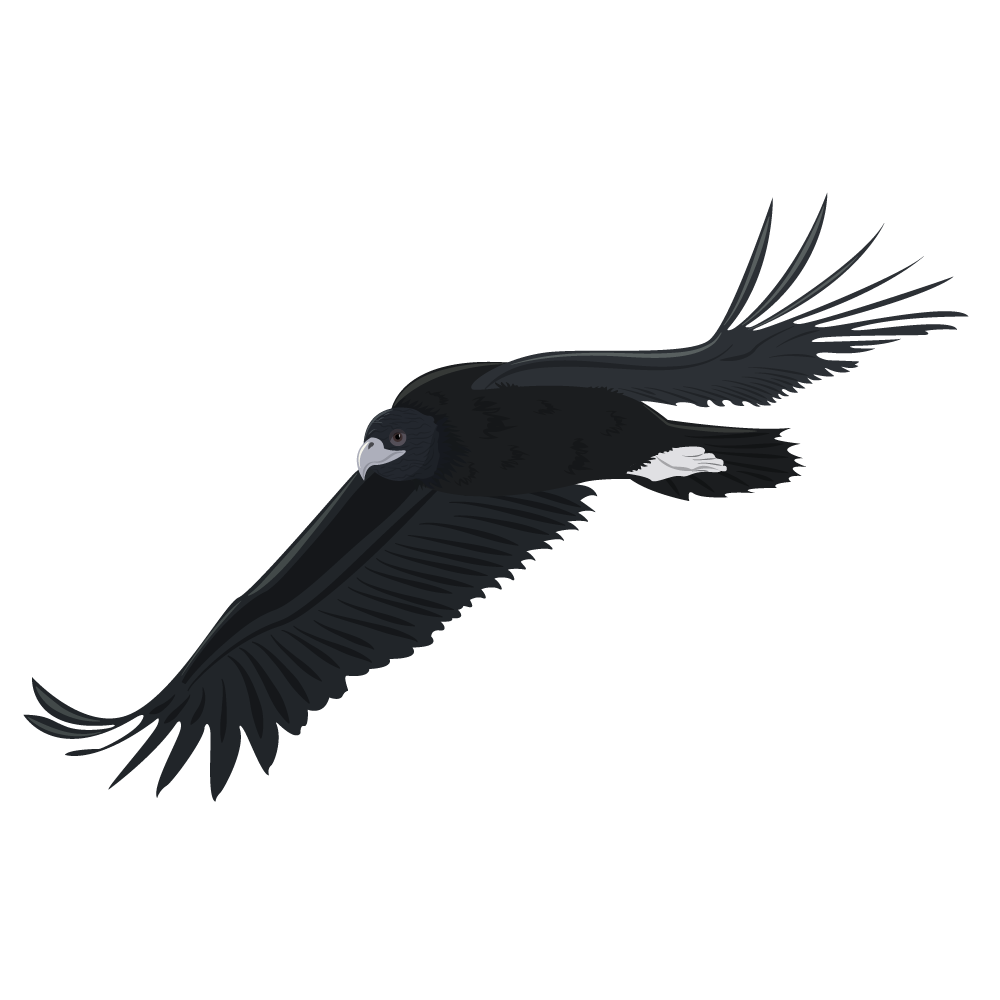
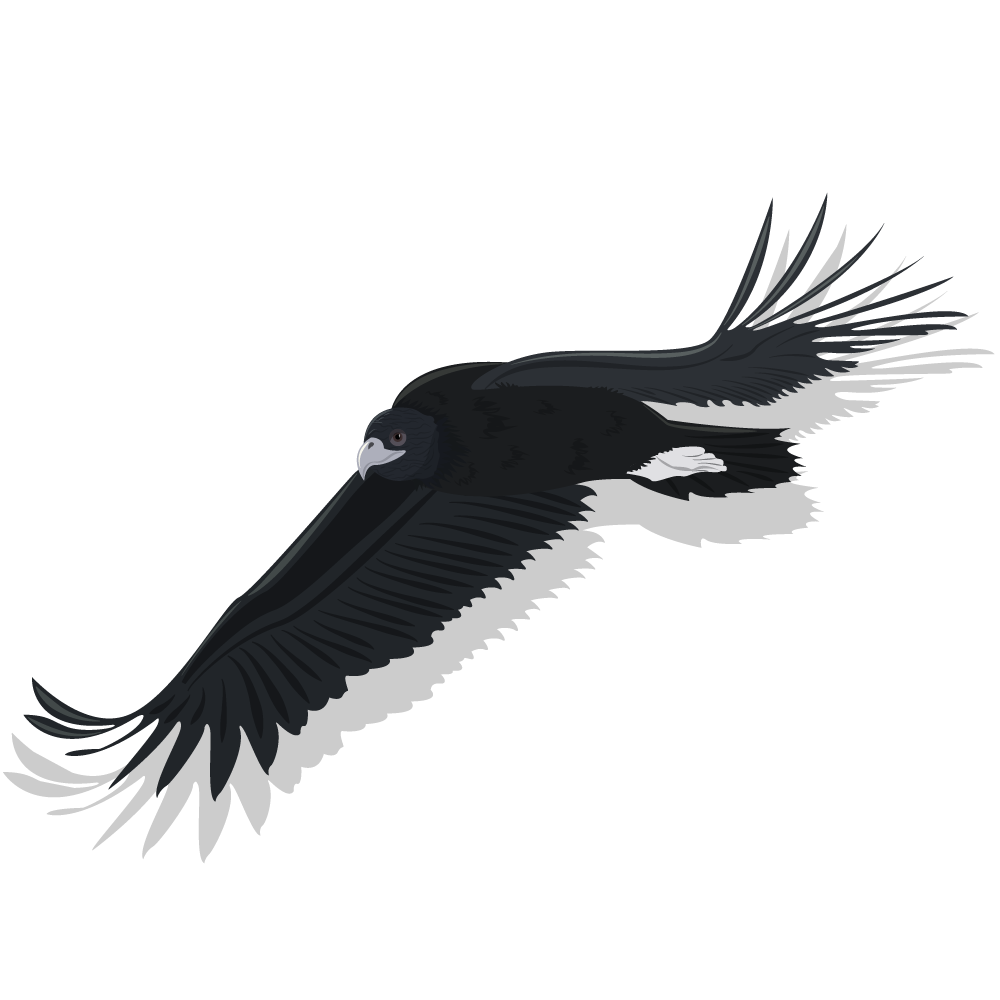
change vulture img

Changed region(s): [[0.0, 0.248, 0.992, 0.868], [0.868, 0.279, 0.899, 0.31]]

diff --git a/style.css b/style.css
@@ -206,7 +206,7 @@ li {
 }
 
 .vulture-1 {
-    background: url(./assets/vulture@2x.png);
+    background: url(./assets/vulture-left@2x.png);
     height: 80vh;
     width: 80vh;
     background-position: center;
